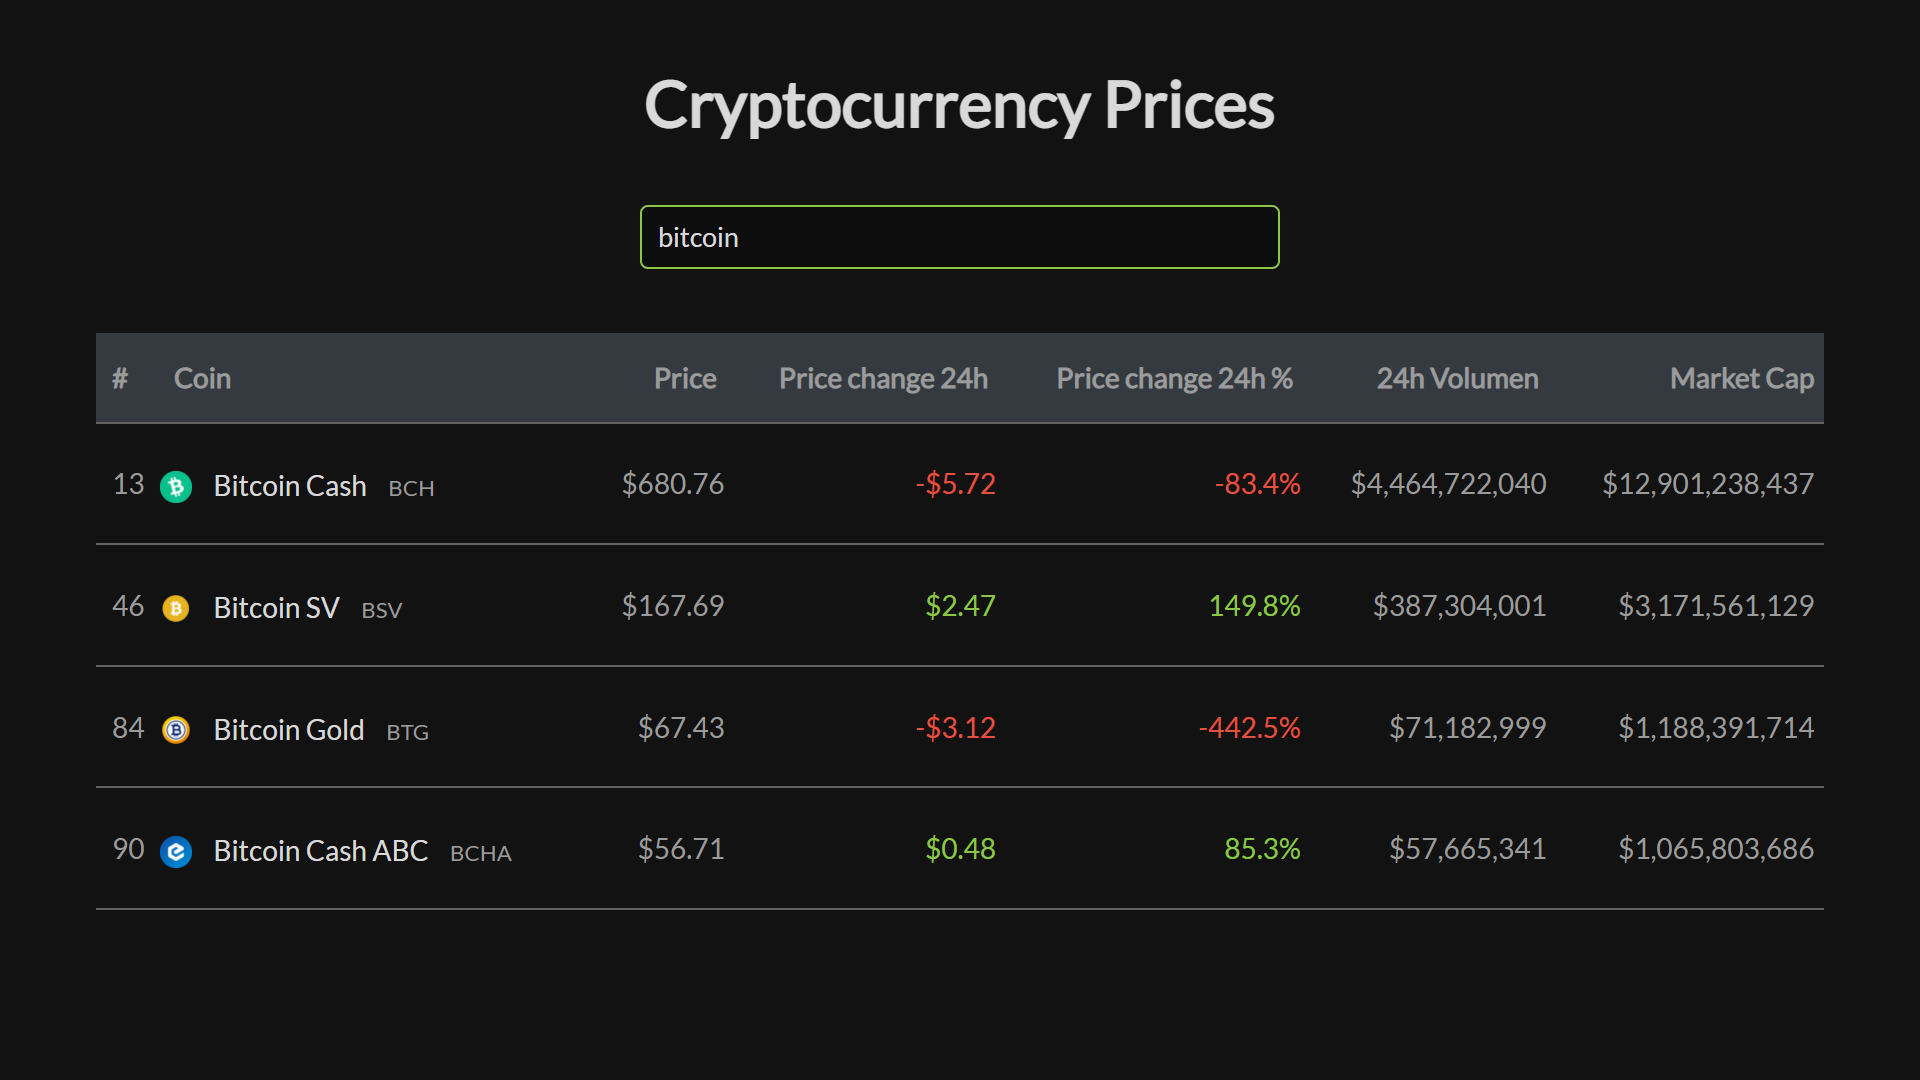
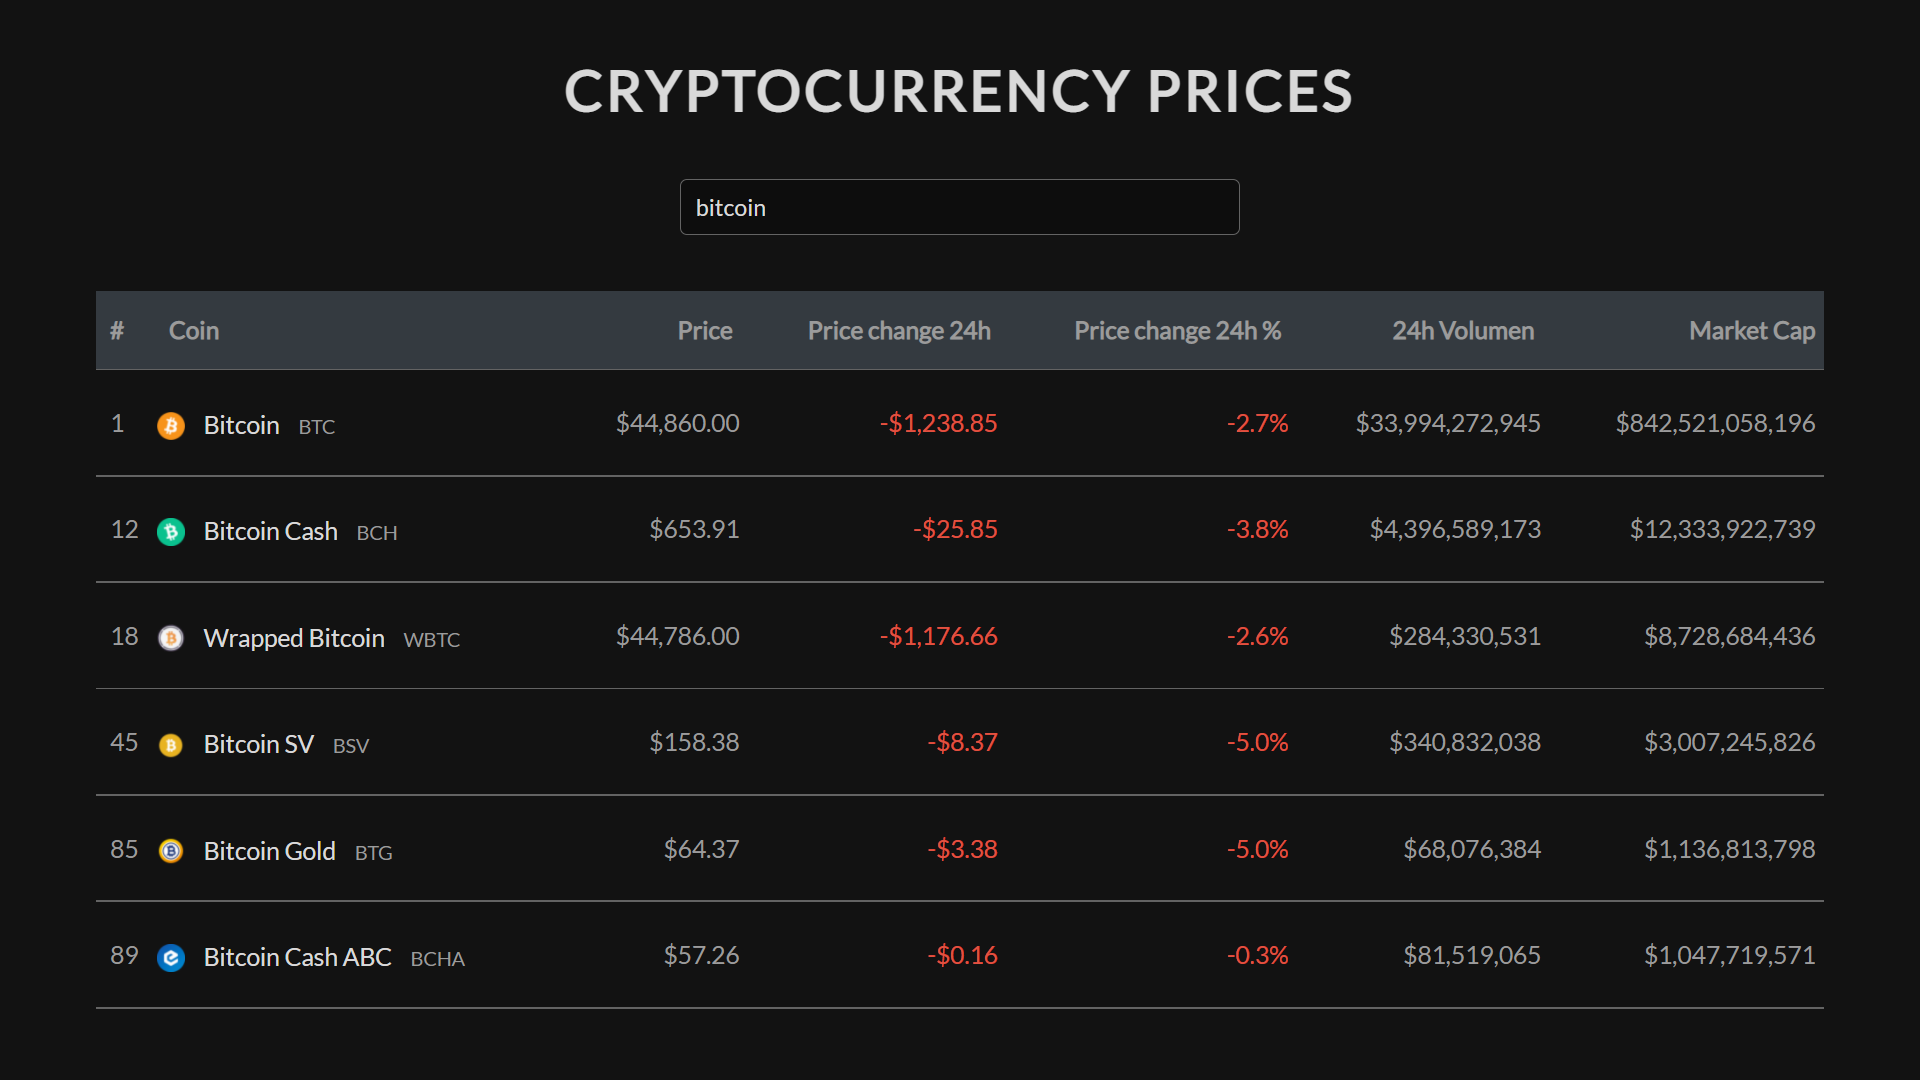
[Crypto] Update style

diff --git a/cryptocurrency/style.css b/cryptocurrency/style.css
@@ -17,6 +17,8 @@ h1 {
   text-align: center;
   font-size: 2rem;
   margin: 2rem;
+  text-transform: uppercase;
+  letter-spacing: 2px;
 }
 
 .search-input {
